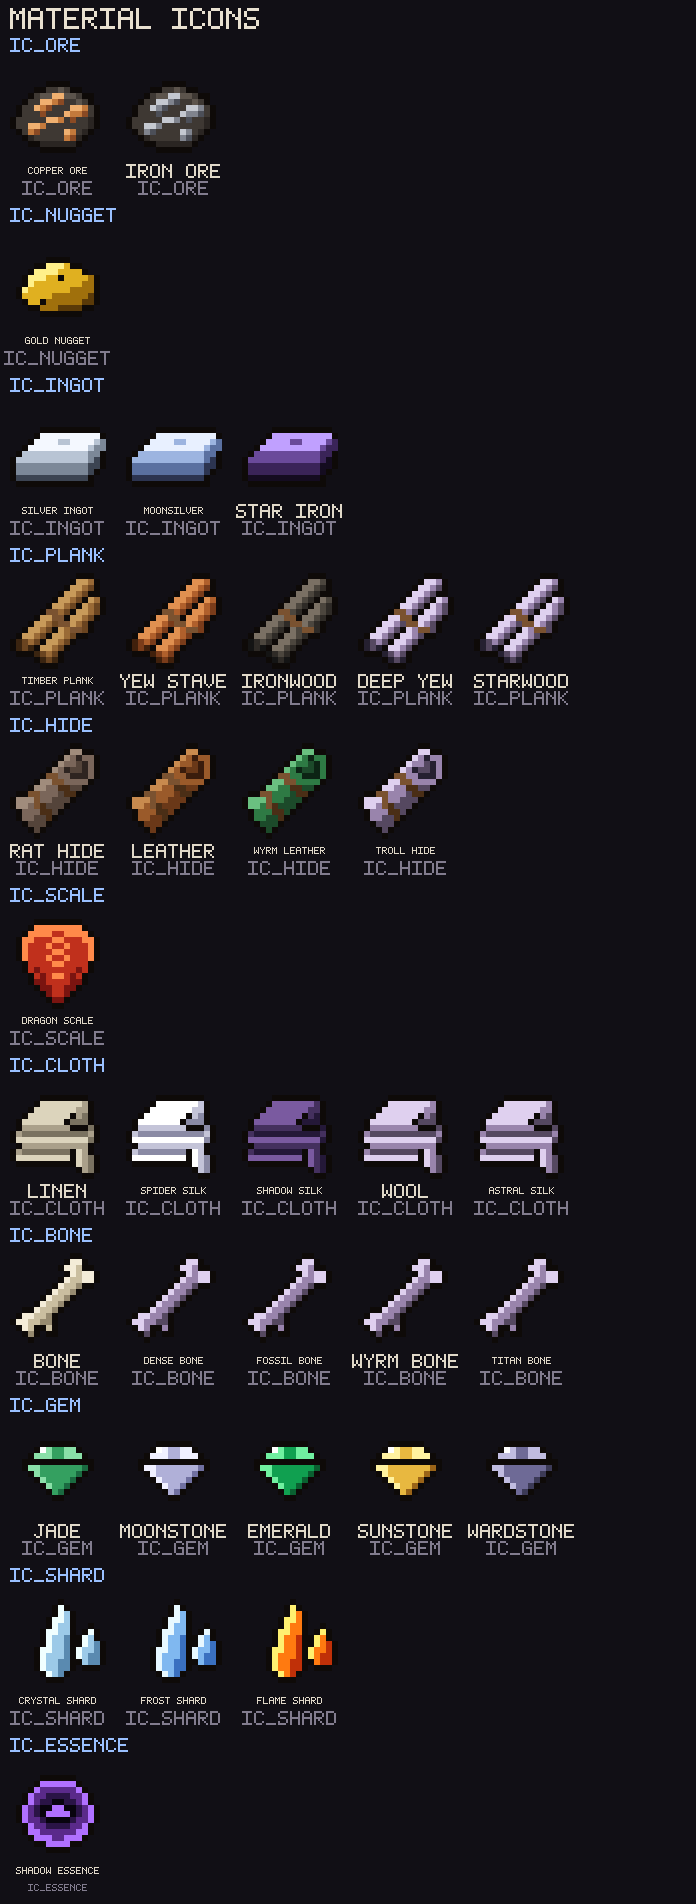
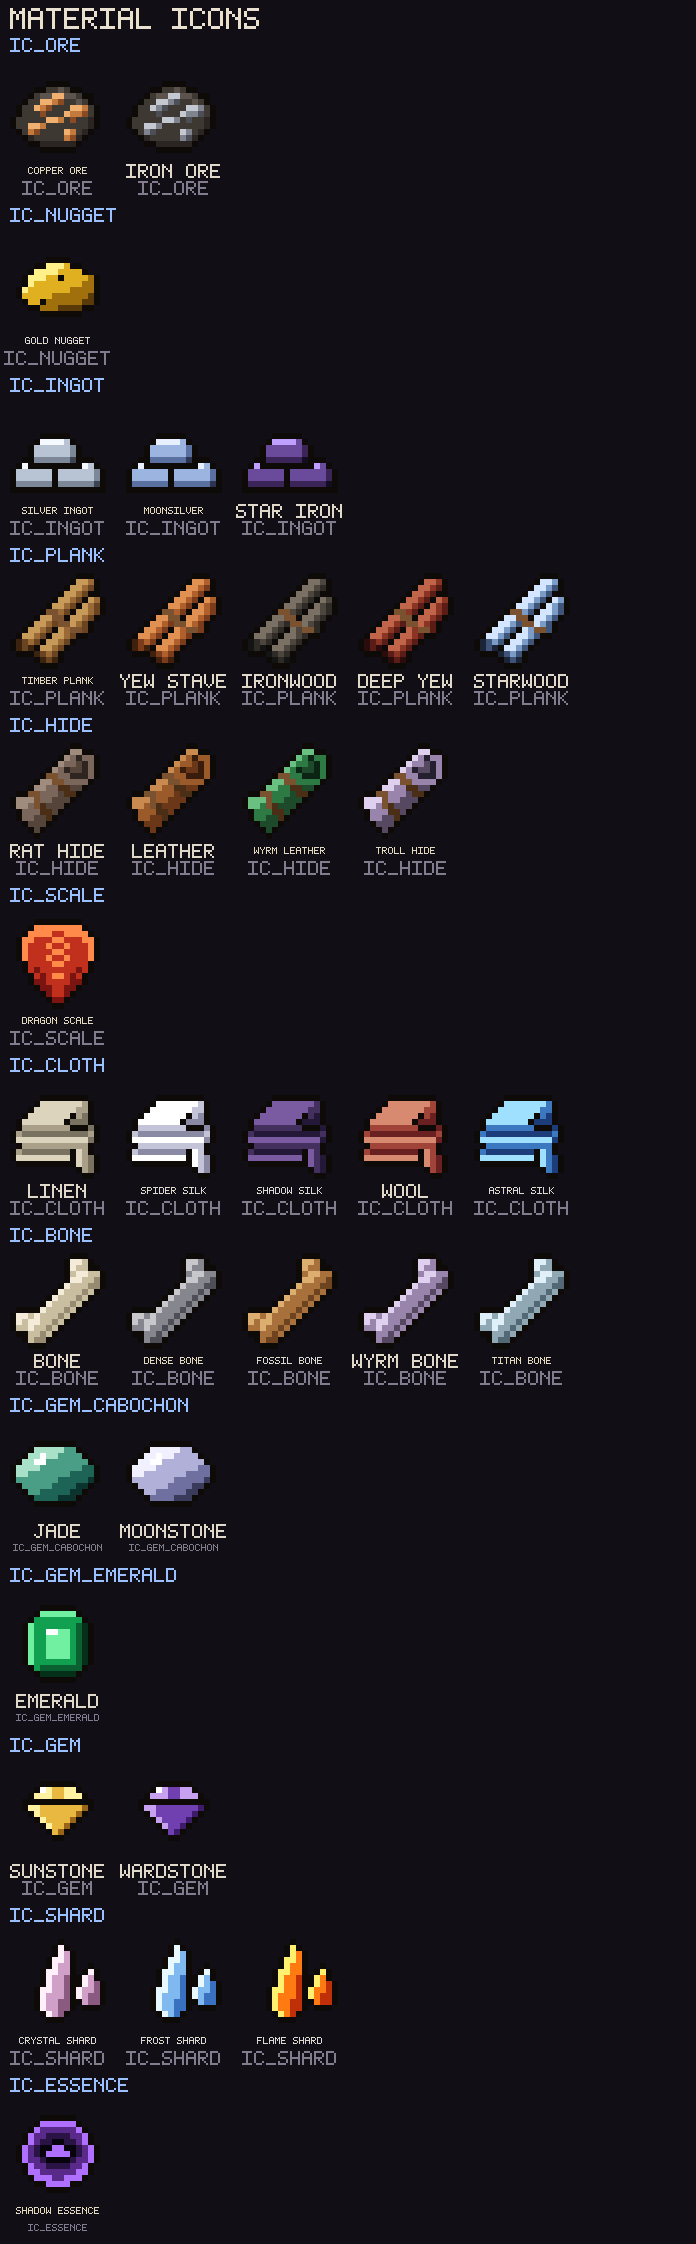
Update the material sheet and notes for the new colours
Claude-Session: https://claude.ai/code/session_01PN4WJcu7AgUqkFZr6MNgbp

diff --git a/docs/art-review.md b/docs/art-review.md
@@ -73,6 +73,7 @@ than the original but blotchier, not better.
 | 6 | 7 | Spore hunter | The tongue hung down all the time, so the attack only lengthened it. → At rest only the tongue's tip shows. On the lunge the gills flare and glowing spores puff out beside the body. The tongue stays: it came from the owner's reference. |
 | 5 | 6 | Mines floor | One dirt tile everywhere. → About one tile in eight is spoil with copper chips (one glinting), rarer still a dropped pick. The shared `DIRT_ROWS` is untouched. |
 | 5 | 7 | Material icons (`ic_ingot`, `ic_plank`, `ic_cloth`, `ic_bone`, `ic_scale`, new `ic_ore` and `ic_nugget`) | Flat bars, stripes and sticks, and ore drawn as a smelted bar. → Each one is a single object that fills the cell, like the rolled hide: a heavy 3/4-view ingot with a stamp, three boards bundled with cord, a folded length of cloth with the loose end hanging, a knobbed femur, one big keeled scale. Copper and iron ore are rock with metal veins, and the gold nugget is a raw lump. Gem, shard and essence were already fine. |
+| 5 | 7 | Material colours (`src/data/materials.ts`) | Nine materials shared one placeholder lavender ramp from the crafting rework (ab0562d), and Jade/Emerald, Moonstone/Wardstone and Crystal/Frost were near twins. → Every material that shares an icon has its own colour; Jade and Moonstone got a cabochon (`ic_gem_cabochon`) and Emerald an emerald cut (`ic_gem_emerald`). The ingot became a stack of bars and the bone a thick double-knobbed femur. Gear crafted from these materials takes the new colours. |
 | 5 | 7 | Consumable icons (new `ic_potion_greater`, `ic_tonic`, `ic_milk`, `ic_scroll_identify/flash/backstep/recall`; `ic_potion` redrawn, `ic_scroll` gone) | Four potions on one flask and four scrolls on one scroll, told apart only by colour. → One icon each: round flask, bigger gold-banded flask, slim vial, milk bottle; scrolls with an eye, a sunburst, a turning-back arrow and a house. The Flash Scroll's ramp went from white to sun gold so its mark shows on parchment. `ic_potion` is also the HUD's refillable flask. |
 | 7 | 7 | Ossuary floor | Long flagstone corridors. → About one tile in eight is a grave lid with a cross cut in it, or an iron drain grate. |
 

diff --git a/patch_notes.md b/patch_notes.md
@@ -8,6 +8,8 @@
 
 **Materials look like what they are.** In your pack, copper and iron ore are now chunks of rock with the metal showing through, and a gold nugget is a lump of raw gold. They used to look like smelted bars. Ingots are heavy bars with a maker's stamp. Planks come bundled and tied with cord, and cloth is a folded length with its loose end hanging down. Bones are knobbed at both ends, and a dragon scale is one big pointed scale.
 
+**No two materials look alike.** Nine materials were all the same pale lavender, including four of the five bones. Each now has its own colour: Deep Yew is mahogany, Starwood silver-blue, Wool madder red, Astral Silk a starry blue, and the bones run from grey to ochre to ice. Among the gems, Jade is a soft teal and Wardstone a deep violet. Jade and Moonstone are now polished stones, and Emerald has an emerald cut, so their shapes differ too. The Crystal Shard is rose quartz beside the blue Frost Shard. Gear crafted from these materials takes the new colours. Ingots now come as a small stack of bars, and bones are thicker, with a double knob at each end.
+
 **You can tell your potions and scrolls apart.** Every potion shared one flask and every scroll shared one scroll, so only the colour told them apart. Now each has its own. The Healing Draught is a round flask, Greater Healing a bigger flask with a gold band, the Stamina Tonic a tall slim vial, and Fight Milk a milk bottle. Each scroll carries a mark for what it does: an eye for Identify, a sun for Flash, a turning-back arrow for Backstep, a house for Recall. The Flash Scroll is sun-gold now instead of white.
 
 **Floors with something on them.** In the Ossuary, about one tile in eight is now a grave lid with a cross cut into it, or an iron drain grate. In the Deep Mines, you'll see spoil with copper in it about as often, and now and then a pick somebody dropped.

diff --git a/docs/ART.md b/docs/ART.md
@@ -183,6 +183,10 @@ From reviews of rounds 1–2:
     If materials of different kinds share an icon, split it: ore and nuggets
     got their own after being drawn as smelted bars; each potion and scroll
     has its own icon rather than a shared one told apart by colour.
+  - No two materials that share an icon may share a ramp, and near twins
+    (two greens, two pale blues) count as sharing. The crafting rework left a
+    placeholder lavender on nine materials; if you add a material, give it
+    its own ramp. The ramp also colours gear crafted from it.
   - A mark on parchment needs a dark or saturated ramp. The Flash Scroll's
     all-white ramp vanished and was changed to sun gold.
   - `ic_potion` is also the HUD's refillable flask (`hud.ts`, `town.ts`), so
